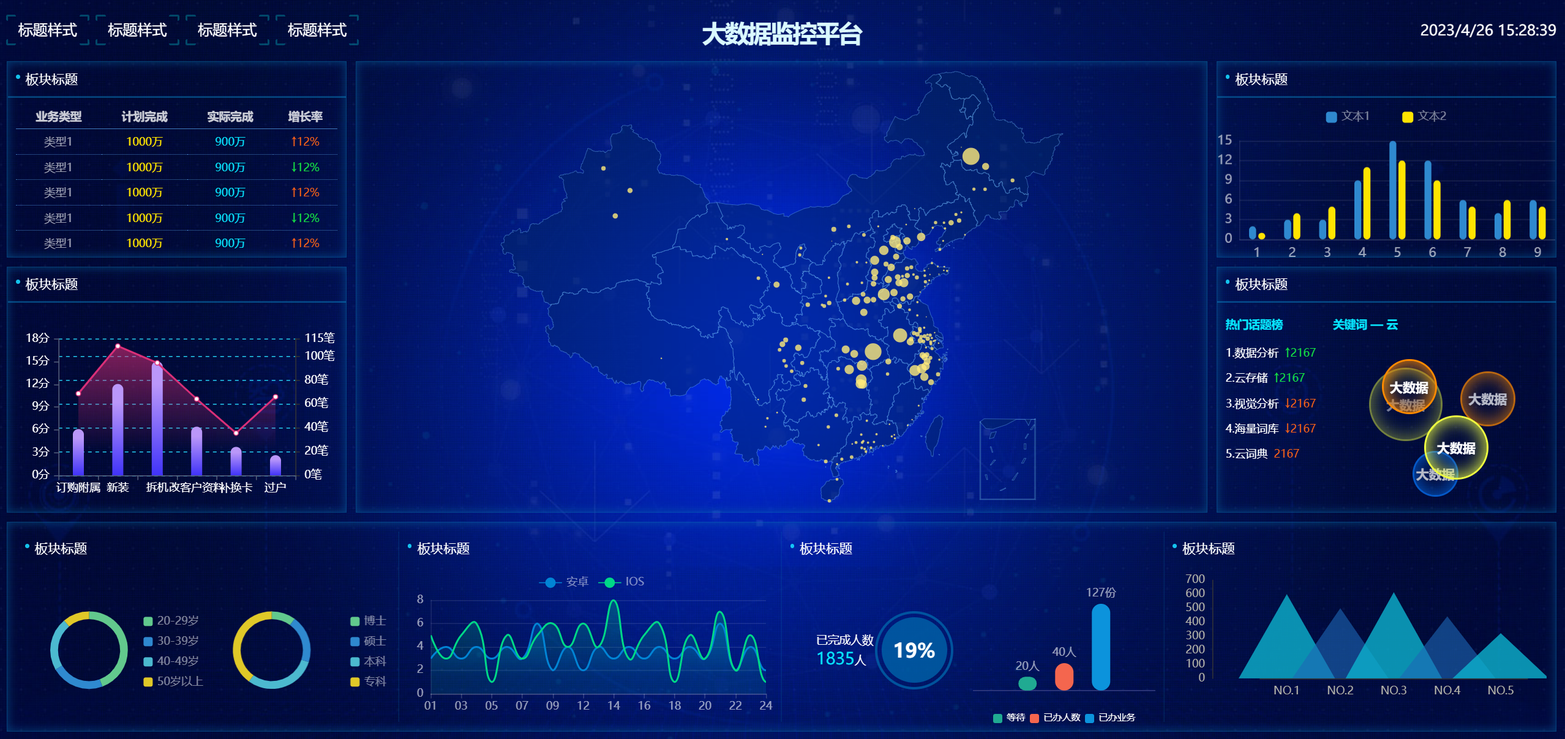
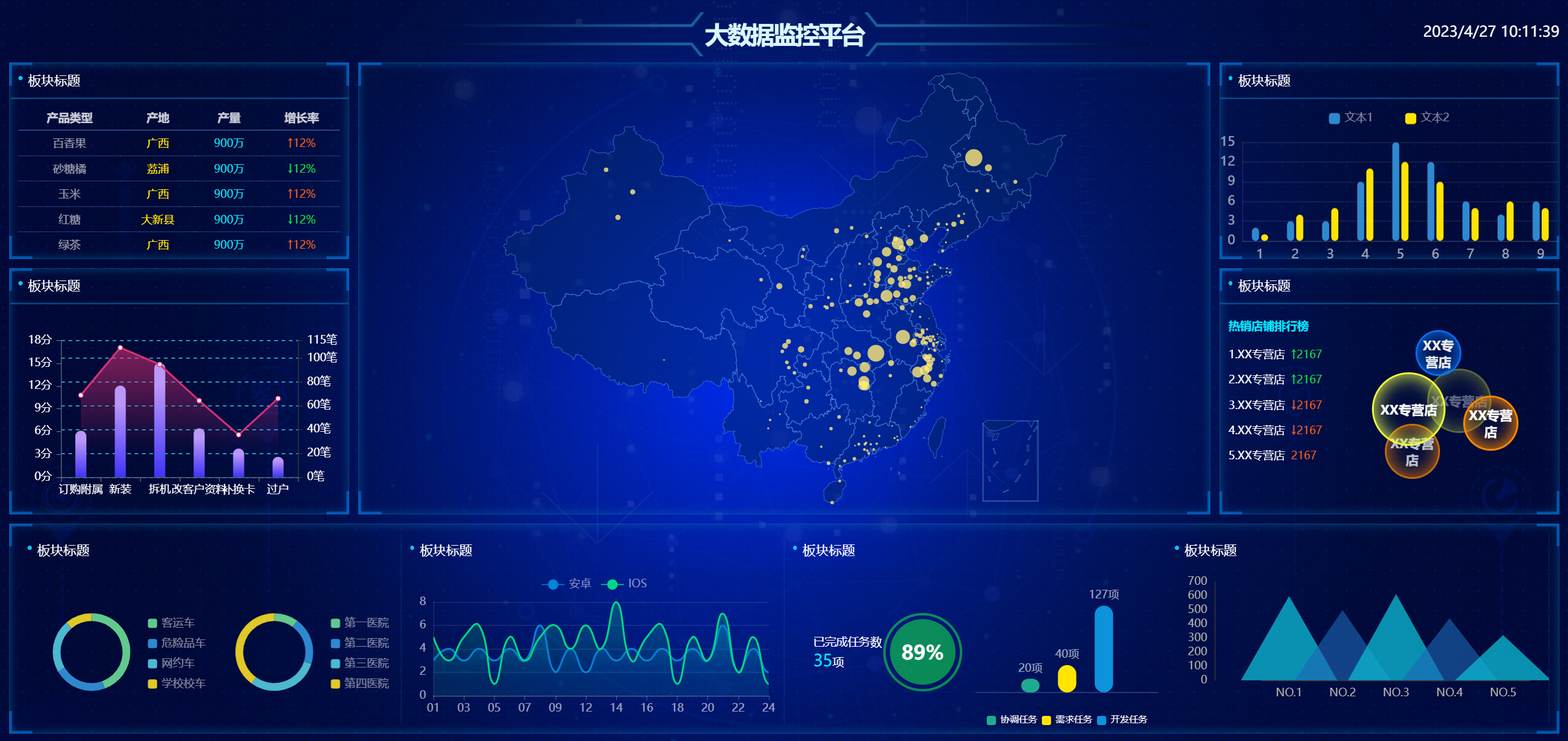
优化

diff --git a/index.html b/index.html
@@ -27,63 +27,69 @@
 <body>
 <div class = "container">
     <header>
-        <div class="small-title">
+        <!--<div class="small-title">
             <p><span>标题样式</span></p>
             <p><span>标题样式</span></p>
             <p><span>标题样式</span></p>
             <p><span>标题样式</span></p>
-        </div>
-        <div  class="title">大数据监控平台</div>
+        </div>-->
+        <div  class="title"><img src="./images/title-left.png"/>大数据监控平台<img src="./images/title-right.png"/></div>
         <div class="time" id="showTime"></div>
     </header>
     <main>
         <aside class="left">
             <header>
                 <h3>板块标题</h3>
+                <div>
+                    <img src="images/bj-1.png" alt="" class="bj-1">
+                    <img src="images/bj-2.png" alt="" class="bj-2">
+                    <img src="images/bj-3.png" alt="" class="bj-3">
+                    <img src="images/bj-4.png" alt="" class="bj-4">
+                </div>
                 <div class="boxnav">
                     <table class="table1" width="100%" border="0" cellspacing="0" cellpadding="0">
                         <tbody>
                         <tr>
-                            <th>业务类型</th>
-                            <th>计划完成</th>
-                            <th>实际完成</th>
+                            <th>产品类型</th>
+                            <th>产地</th>
+                            <th>产量</th>
                             <th>增长率</th>
                         </tr>
                         <tr>
-                            <td>类型1</td>
-                            <td><span class="text-w">1000万</span></td>
+                            <td>百香果</td>
+                            <td><span class="text-w">广西</span></td>
                             <td><span class="text-b">900万</span></td>
                             <td>
                                 <div class="text-d">↑12%</div>
                             </td>
                         </tr>
                         <tr>
-                            <td>类型1</td>
-                            <td><span class="text-w">1000万</span></td>
+                            <td>砂糖橘</td>
+                            <td><span class="text-w">荔浦</span></td>
                             <td><span class="text-b">900万</span></td>
                             <td>
                                 <div class="text-s">↓12%</div>
                             </td>
                         </tr>
                         <tr>
-                            <td>类型1</td>
-                            <td><span class="text-w">1000万</span></td>
+                            <td>玉米</td>
+                            <td><span class="text-w">广西</span></td>
                             <td><span class="text-b">900万</span></td>
                             <td>
                                 <div class="text-d">↑12%</div>
                             </td>
                         </tr>
                         <tr>
-                            <td>类型1</td>
-                            <td><span class="text-w">1000万</span></td>
+                            <td>红糖</td>
+                            <td><span class="text-w">大新县</span></td>
                             <td><span class="text-b">900万</span></td>
                             <td>
                                 <div class="text-s">↓12%</div>
                             </td>
                         </tr>
                         <tr>
-                            <td>类型1</td>
-                            <td><span class="text-w">1000万</span></td>
+                            <td>绿茶</td>
+                            <td><span class="text-w">广西</span></td>
                             <td><span class="text-b">900万</span></td>
                             <td>
                                 <div class="text-d">↑12%</div>
@@ -96,6 +102,12 @@
             </header>
             <footer>
                 <h3>板块标题</h3>
+                <div>
+                    <img src="images/bj-1.png" alt="" class="bj-1">
+                    <img src="images/bj-2.png" alt="" class="bj-2">
+                    <img src="images/bj-3.png" alt="" class="bj-3">
+                    <img src="images/bj-4.png" alt="" class="bj-4">
+                </div>
                 <div class="reda">
                     <div id="reda" style="height:2.5rem;margin-top:0.1rem;"></div>
                     <!--<ul class="reda-value">
@@ -124,6 +136,12 @@
             </footer>
         </aside>
         <section>
+            <div>
+                <img src="images/bj-1.png" alt="" class="bj-1">
+                <img src="images/bj-2.png" alt="" class="bj-2">
+                <img src="images/bj-3.png" alt="" class="bj-3">
+                <img src="images/bj-4.png" alt="" class="bj-4">
+            </div>
             <div id="map"></div>
             <ul class="indicators"></ul>
             <div class="polyGonal"></div>
@@ -131,39 +149,51 @@
         <aside class="right">
             <header>
                 <h3>板块标题</h3>
+                <div>
+                    <img src="images/bj-1.png" alt="" class="bj-1">
+                    <img src="images/bj-2.png" alt="" class="bj-2">
+                    <img src="images/bj-3.png" alt="" class="bj-3">
+                    <img src="images/bj-4.png" alt="" class="bj-4">
+                </div>
                 <div id="coordinate-pillar"></div>
             </header>
             <footer>
                 <h3>板块标题</h3>
+                <div>
+                    <img src="images/bj-1.png" alt="" class="bj-1">
+                    <img src="images/bj-2.png" alt="" class="bj-2">
+                    <img src="images/bj-3.png" alt="" class="bj-3">
+                    <img src="images/bj-4.png" alt="" class="bj-4">
+                </div>
                 <div class="content">
                     <div class="left">
-                        <h4 class="text-b">热门话题榜</h4>
+                        <h4 class="text-b">热销店铺排行榜</h4>
                         <ul>
                             <li>
-                                1.数据分析 <span class="text-s">↑2167</span>
+                                1.XX专营店 <span class="text-s">↑2167</span>
                             </li>
                             <li>
-                                2.云存储 <span class="text-s">↑2167</span>
+                                2.XX专营店 <span class="text-s">↑2167</span>
                             </li>
                             <li>
-                                3.视觉分析 <span class="text-d">↓2167</span>
+                                3.XX专营店 <span class="text-d">↓2167</span>
                             </li>
                             <li>
-                                4.海量词库 <span class="text-d">↓2167</span>
+                                4.XX专营店 <span class="text-d">↓2167</span>
                             </li>
                             <li>
-                                5.云词典 <span class="text-d">2167</span>
+                                5.XX专营店 <span class="text-d">2167</span>
                             </li>
                         </ul>
                     </div>
                     <div class="right">
-                        <h4 class="text-b">关键词 — 云</h4>
+                        <h4 class="text-b"></h4>
                         <div class="tagcloud">
-                            <a class="b01 co01" href="https://gitee.com/iGaoWei/big-data-view">大数据</a>
-                            <a class="b02 co02" href="https://gitee.com/iGaoWei/big-data-view">大数据</a>
-                            <a class="b03 co05" href="https://gitee.com/iGaoWei/big-data-view">大数据</a>
-                            <a class="b04 co02" href="https://gitee.com/iGaoWei/big-data-view">大数据</a>
-                            <a class="b03 co05" href="https://gitee.com/iGaoWei/big-data-view">大数据</a>
+                            <a class="b01 co01" href="https://gitee.com/iGaoWei/big-data-view">XX专营店</a>
+                            <a class="b02 co02" href="https://gitee.com/iGaoWei/big-data-view">XX专营店</a>
+                            <a class="b03 co05" href="https://gitee.com/iGaoWei/big-data-view">XX专营店</a>
+                            <a class="b04 co02" href="https://gitee.com/iGaoWei/big-data-view">XX专营店</a>
+                            <a class="b03 co05" href="https://gitee.com/iGaoWei/big-data-view">XX专营店</a>
                         </div>
                     </div>
                 </div>
@@ -171,6 +201,12 @@
         </aside>
     </main>
     <footer>
+        <div>
+            <img src="images/bj-1.png" alt="" class="bj-1">
+            <img src="images/bj-2.png" alt="" class="bj-2">
+            <img src="images/bj-3.png" alt="" class="bj-3">
+            <img src="images/bj-4.png" alt="" class="bj-4">
+        </div>
         <section>
             <h3>板块标题</h3>
             <div class="circle">
@@ -187,11 +223,11 @@
             <div class="finished">
                 <div class="people half-width">
                     <section>
-                        <p>已完成人数</p>
-                        <p ><span class="text-b">1835</span>人</p>
+                        <p>已完成任务数</p>
+                        <p ><span class="text-b">35</span>项</p>
                     </section>
                     <section>
-                        <h5>19%</h5>
+                        <h5>89%</h5>
                     </section>
                 </div>
                 <div id="pillar" class="half-width"></div>
@@ -252,14 +288,14 @@
         }
     }
     getDynamicTime()
-    createCircle("circle1", [{ value: 4, name: '20-29岁' },
-        { value: 2, name: '30-39岁' },
-        { value: 2, name: '40-49岁' },
-        { value: 1, name: '50岁以上' }])
-    createCircle("circle2",[{ value: 10, name: '博士' },
-        { value: 20, name: '硕士' },
-        { value: 30, name: '本科' },
-        { value: 40, name: '专科' },])
+    createCircle("circle1", [{ value: 4, name: '客运车' },
+        { value: 2, name: '危险品车' },
+        { value: 2, name: '网约车' },
+        { value: 1, name: '学校校车' }])
+    createCircle("circle2",[{ value: 10, name: '第一医院' },
+        { value: 20, name: '第二医院' },
+        { value: 30, name: '第三医院' },
+        { value: 40, name: '第四医院' },])
     /*createCircle('circle3',[{ value: 4, name: '数据分门别类' },
         { value: 2, name: '数据关系部门' },
         { value: 2, name: '今日数据交易' },])

diff --git a/js/src/pillarExample.js b/js/src/pillarExample.js
@@ -126,7 +126,7 @@ function createPillar(selectorId){
             //containLabel: true
         },
         legend: {
-            data: ['等待', '已办人数', '已办业务'],
+            data: ['协调任务', '需求任务', '开发任务'],
             bottom: 0,
             itemWidth: 10,
             itemHeight: 10,
@@ -175,7 +175,7 @@ function createPillar(selectorId){
         ],
         series: [
             {
-                name: '等待',
+                name: '协调任务',
                 type: 'bar',
                 barWidth: '20',
 
@@ -191,7 +191,7 @@ function createPillar(selectorId){
                 barGap: '100%',
                 data: [20],
                 label: {
-                    formatter: "{c}人",
+                    formatter: "{c}项",
                     show: true,
                     position: 'top',
                     textStyle: {
@@ -201,12 +201,12 @@ function createPillar(selectorId){
                 },
             },
             {
-                name: '已办人数',
+                name: '需求任务',
                 type: 'bar',
                 itemStyle: {
                     normal: {
                         show: true,
-                        color: '#f4664e',
+                        color: '#ffe400',
                         barBorderRadius: 50,
                         borderWidth: 0,
                     }
@@ -215,7 +215,7 @@ function createPillar(selectorId){
                 barWidth: '20',
                 data: [40],
                 label: {
-                    formatter: "{c}人",
+                    formatter: "{c}项",
                     show: true,
                     position: 'top',
                     textStyle: {
@@ -225,7 +225,7 @@ function createPillar(selectorId){
                 },
             },
             {
-                name: '已办业务',
+                name: '开发任务',
                 type: 'bar',
                 itemStyle: {
                     normal: {
@@ -239,7 +239,7 @@ function createPillar(selectorId){
                 barWidth: '20',
                 data: [127],
                 label: {
-                    formatter: "{c}份",
+                    formatter: "{c}项",
                     show: true,
                     position: 'top',
                     textStyle: {

diff --git a/css/style.css b/css/style.css
@@ -42,7 +42,7 @@ html{font-size:100px;}
     height:0.85rem;
     flex:1 1 0;
     display:flex;
-    justify-content: space-between;
+    justify-content: flex-end;
     align-items: center;
     position: relative;
 }
@@ -53,11 +53,14 @@ html{font-size:100px;}
     width:100%;
     height:0.85rem;
     line-height: 0.85rem;
-    text-align: center;
+    /*text-align: center;*/
     font-size:0.3rem;
     letter-spacing: -2px;
     color:#daf9ff;
     font-weight: bold;
+    display: flex;
+    justify-content: center;
+    align-items: center;
 }
 .small-title{
     font-size:0.18rem;
@@ -131,6 +134,26 @@ main >aside>header,main>aside>footer,main>section,footer{
     flex:4 1 2.36rem;
     margin-bottom: 10px;
     position:relative;
+}
+img.bj-1,img.bj-2,img.bj-3,img.bj-4{
+    position: absolute;
+    opacity: 0.5;
+}
+img.bj-1{
+    left: -1px;
+    top: -1px;
+}
+img.bj-2{
+    right: -1px;
+    top: -1px;
+}
+img.bj-3{
+    right: -1px;
+    bottom: -1px;
+}
+img.bj-4{
+    left: -1px;
+    bottom: -1px;
 }
 h3{
     height:0.4rem;
@@ -242,6 +265,7 @@ h4{
     width:10.2rem;
     flex: 5 1 0;
     margin:0 10px;
+    position: relative;
 }
 #map{
     width:100%;
@@ -255,6 +279,7 @@ h4{
     display: flex;
     justify-content: space-between;
     padding:10px;
+    position: relative;
 }
 .container >footer>section{
     width:4.63rem;
@@ -306,7 +331,7 @@ h4{
     font-size:0.2rem;
 }
 .finished section>h5{
-    background: rgba(0,99,169,.8);
+    background: rgba(20,255,68,.5);
     font-size:0.24rem;
     width:0.8rem;
     height:0.8rem;
@@ -323,7 +348,7 @@ h4{
     width:0.9rem;
     height:0.9rem;
     content: "";
-    border:0.03rem solid rgba(0,99,169,.8);
+    border:0.03rem solid rgba(20,255,68,.5);
     border-radius: 0.9rem;
 }
 /*bubble*/
